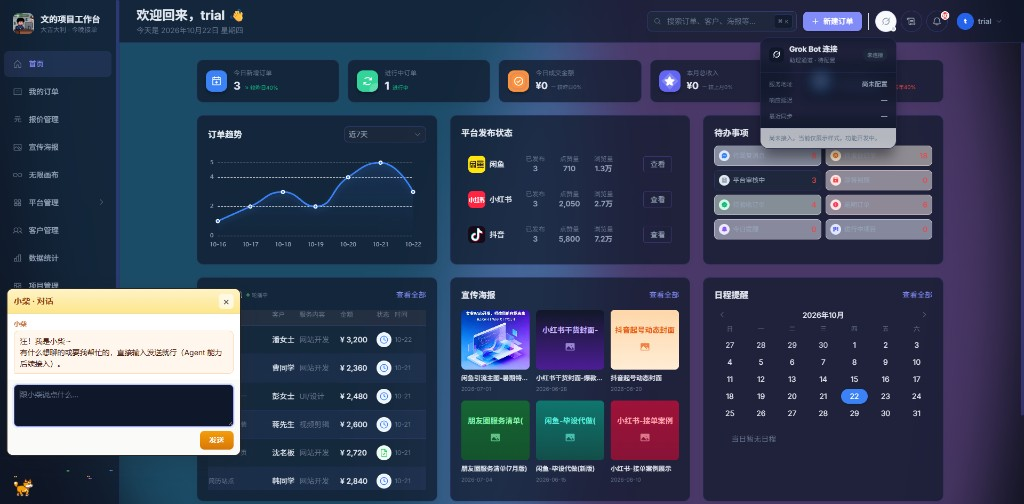
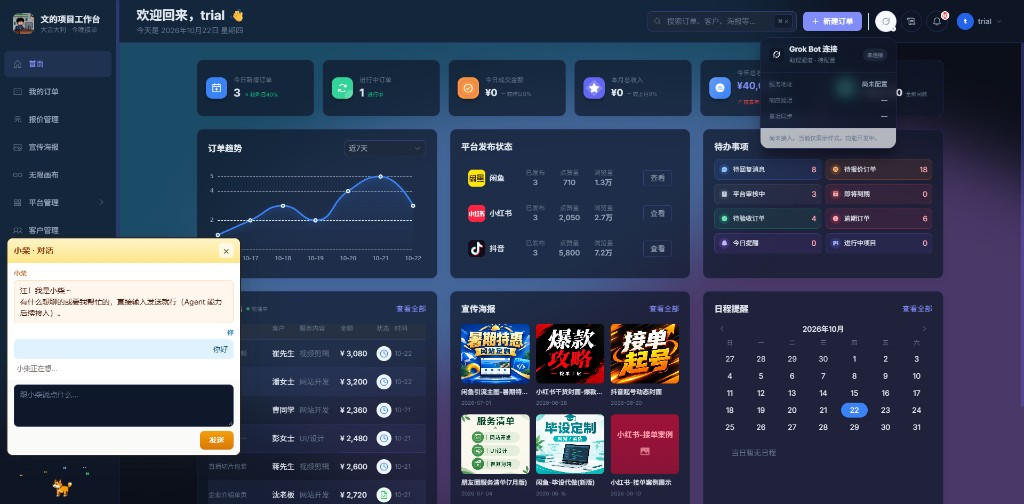
docs: 更新 README 的桌面端首页截图
两张介绍图统一到同一高度。

diff --git a/README.md b/README.md
@@ -7,14 +7,14 @@
 [![Storage](https://img.shields.io/badge/storage-JSON%20files-6b7280?style=flat-square)](#功能)
 [![Auth](https://img.shields.io/badge/auth-HMAC%20cookie-8b5cf6?style=flat-square)](#启动)
 [![License](https://img.shields.io/badge/license-MIT-22c55e?style=flat-square)](#许可)
-[![Tests](https://img.shields.io/badge/tests-node%20--test-0ea5e9?style=flat-square)](#启动)
 
 本机接单工作台。桌面端管客户、订单、报价、项目、发帖和素材；手机端查进度、改状态。两边共用同一套后端，数据按账号分开存放。
 
 <p>
-  <img src="docs/screenshots/desktop-home.png" alt="桌面端首页" height="260">
-  <img src="docs/screenshots/mobile-workbench.png" alt="移动端工作台" height="260">
+  <img src="docs/screenshots/desktop-home.png" alt="桌面端首页" height="310">
+  <img src="docs/screenshots/mobile-workbench.png" alt="移动端工作台" height="310">
 </p>
+
 
 ## 功能
 
